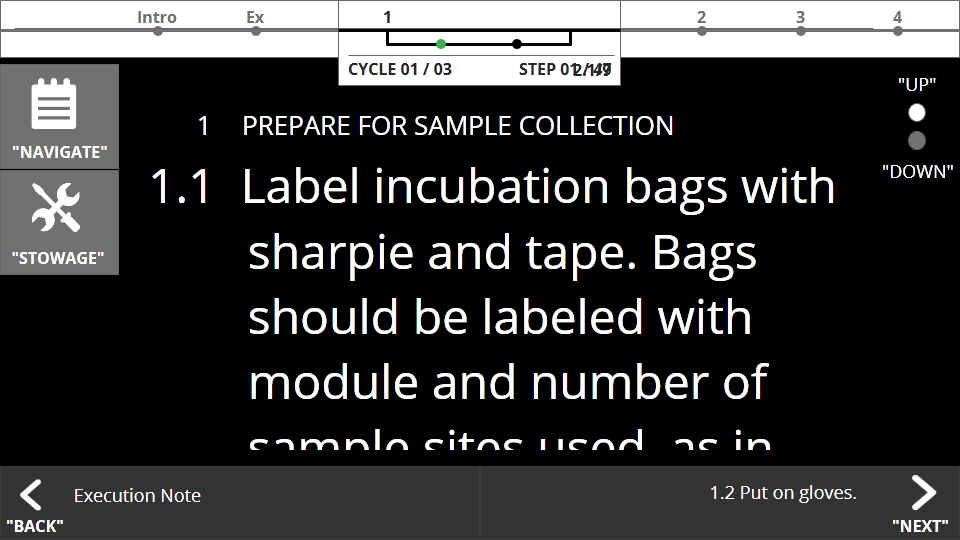
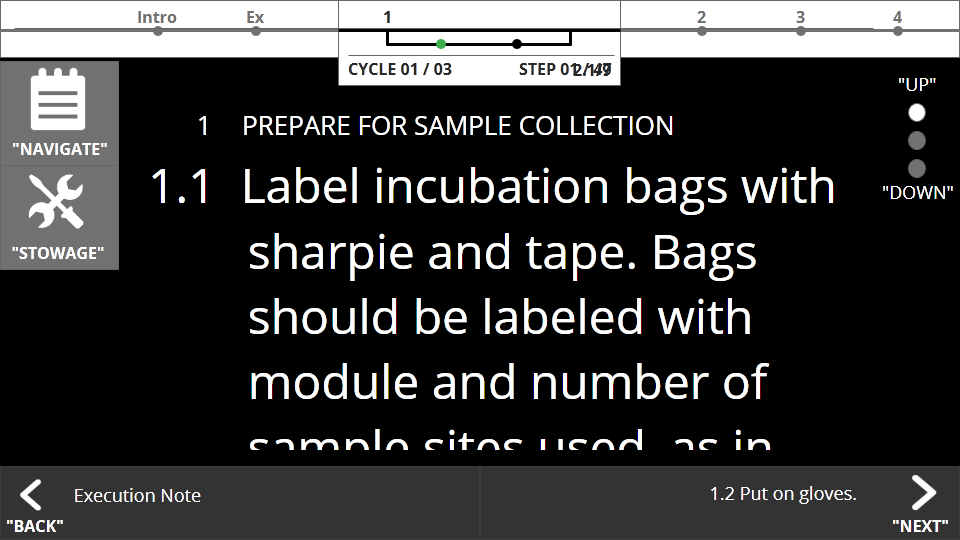
Changed file name.  Fixed bug where updated wasn't being set for scrollup/down.

diff --git a/src/edu/cmu/hcii/novo/Menu.java b/src/edu/cmu/hcii/novo/Menu.java
@@ -54,18 +54,26 @@ public class Menu {
 	}
 	
 	/**
-	 * Scroll down the screen, so just increase the index.
-	 */
-	public void scrollDown() {
-	  if (index < paths.size()-1) index++;
-	}
+	   * Scroll down the screen, so just increase the index.
+	   */
+	  public boolean scrollDown() {
+		  if (index < paths.size()-1) {
+			  index++;
+			  return true;
+		  }
+		  return false;
+	  }
 	  
-	/**
-	 * Scroll up the screen, so just decrease the index.
-	 */
-	public void scrollUp() {
-	  if (index > 0) index--;
-	}
+	  /**
+	   * Scroll up the screen, so just decrease the index.
+	   */
+	  public boolean scrollUp() {
+		  if (index > 0) {
+			  index--;
+			  return true;
+		  }
+		  return false;
+	  }
 
 	/**
 	 * @return the path

diff --git a/src/edu/cmu/hcii/novo/Screen.java b/src/edu/cmu/hcii/novo/Screen.java
@@ -85,15 +85,23 @@ public class Screen {
 	  /**
 	   * Scroll down the screen, so just increase the index.
 	   */
-	  public void scrollDown() {
-		  if (index < paths.size()-1) index++;
+	  public boolean scrollDown() {
+		  if (index < paths.size()-1) {
+			  index++;
+			  return true;
+		  }
+		  return false;
 	  }
 	  
 	  /**
 	   * Scroll up the screen, so just decrease the index.
 	   */
-	  public void scrollUp() {
-		  if (index > 0) index--;
+	  public boolean scrollUp() {
+		  if (index > 0) {
+			  index--;
+			  return true;
+		  }
+		  return false;
 	  }
 	  
 	  /**

diff --git a/src/edu/cmu/hcii/novo/OZ.java b/src/edu/cmu/hcii/novo/OZ.java
@@ -136,11 +136,9 @@ public class OZ extends PApplet {
 				activeMenu = null;
 				updated = true;
 			} else if (keyCode == UP) {
-				if (activeMenu == null) screens.get(screenIndex).scrollUp();
-				else activeMenu.scrollUp(); 
+				updated = activeMenu == null ? screens.get(screenIndex).scrollUp() : activeMenu.scrollUp();
 			} else if (keyCode == DOWN) {
-				if (activeMenu == null) screens.get(screenIndex).scrollDown();
-				else activeMenu.scrollDown(); 
+				updated = activeMenu == null ? screens.get(screenIndex).scrollDown() : activeMenu.scrollDown();
 			}
 		}
 
